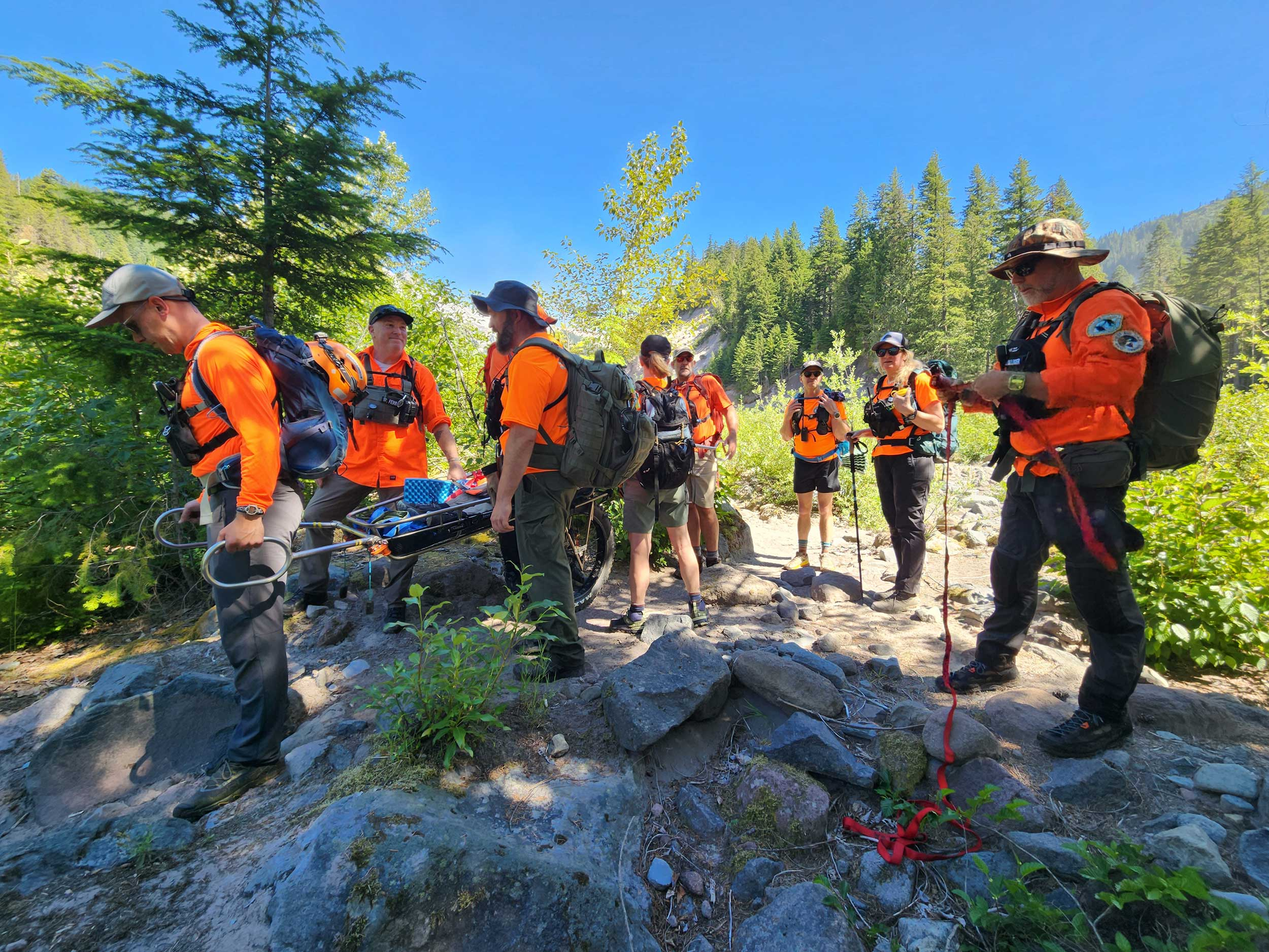
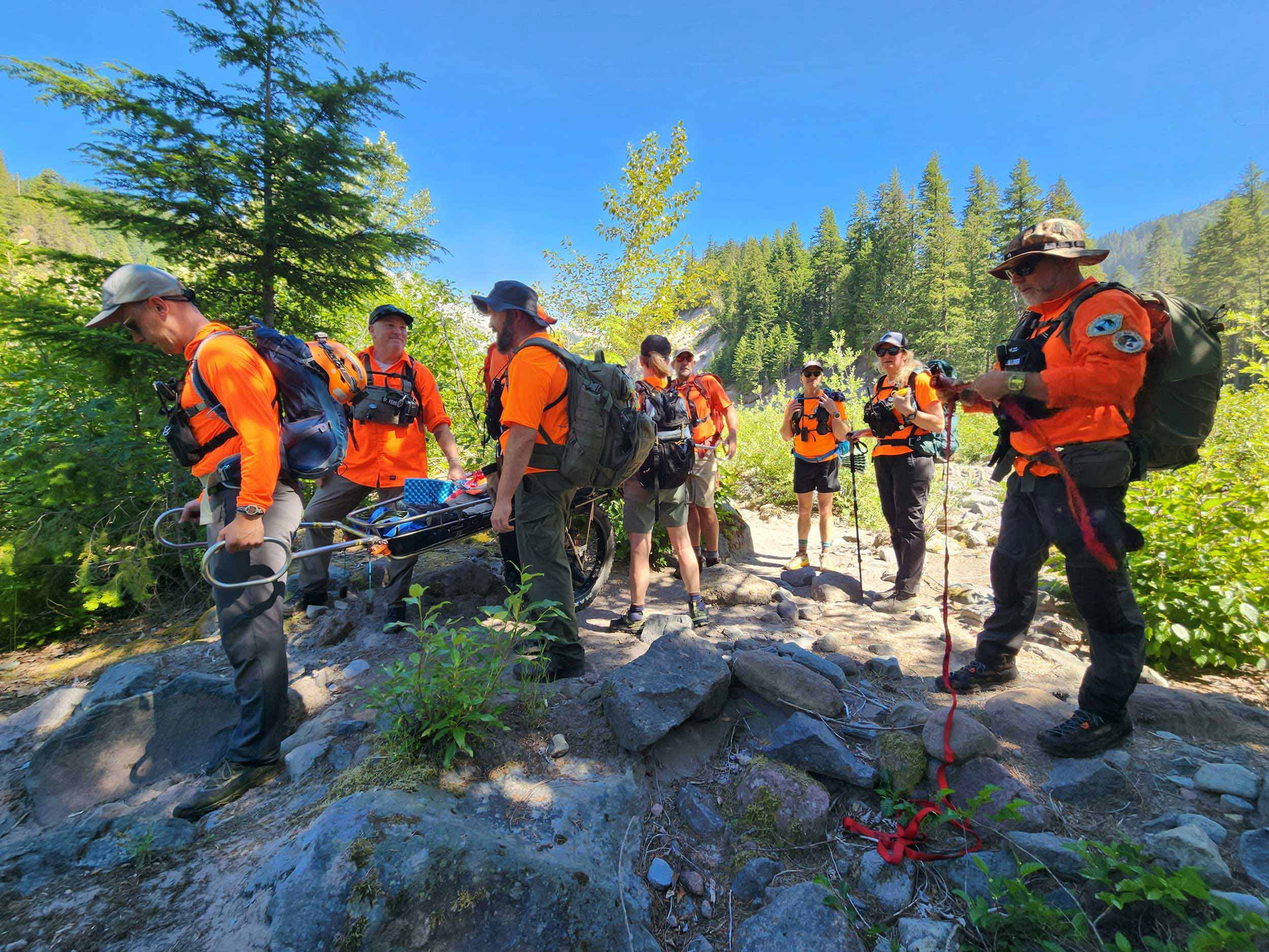
Adds preloads and optimized images

Changed region(s): [[0.4368, 0.2784, 0.5616, 0.3403], [0.4992, 0.1547, 0.5304, 0.2475], [0.3432, 0.3403, 0.3744, 0.3712]]

diff --git a/_includes/head.html b/_includes/head.html
@@ -6,6 +6,10 @@
     <meta name="description" content="{{ site.description }}">
     <link rel="canonical" href="{{ page.url | replace:'index.html','' | prepend: site.baseurl | prepend: site.url }}">
 
+    <!--Preloads-->
+    <link rel="preload" href="{{ '/style.css' | prepend: site.baseurl }}" as="style" />
+    <link rel="preload" href="{{ '/js/counter.js' | prepend: site.baseurl }}" as="script" />
+
     <!--Social meta tags-->
     <meta property="og:title" content="{% if page.title %}{{ page.title | strip_html }} | {{ site.title }}{% else %}{{ site.title }}{% endif %}" />
     <meta property="og:url" content="{{ page.url | replace:'index.html','' | prepend: site.baseurl | prepend: site.url }}" />
@@ -27,14 +31,11 @@
     <script src="https://zeffy-scripts.s3.ca-central-1.amazonaws.com/embed-form-script.min.js"></script>
 
     <!-- Custom CSS – Bootstrap Core CSS – Image gallery -->
-    <link rel="stylesheet" href="{{ "/style.css" | prepend: site.baseurl }}">
+    <link rel="stylesheet" href="{{ '/style.css' | prepend: site.baseurl }}">
     <link rel="stylesheet" href="https://cdnjs.cloudflare.com/ajax/libs/baguettebox.js/1.12.0/baguetteBox.min.css">
 
-    <!-- JS – Image gallery -->
-    <script src="https://cdnjs.cloudflare.com/ajax/libs/baguettebox.js/1.12.0/baguetteBox.js" async></script>
-
     <!-- Custom Fonts -->
-    <link rel="stylesheet" href="{{ "/css/font-awesome/css/font-awesome.min.css" | prepend: site.baseurl }}">
+    <link rel="stylesheet" href="{{ '/css/font-awesome/css/font-awesome.min.css' | prepend: site.baseurl }}">
     <link href="//fonts.googleapis.com/css?family=Lora:400,700,400italic,700italic" rel="stylesheet" type="text/css">
     <link href="//fonts.googleapis.com/css?family=Montserrat:400,700" rel="stylesheet" type="text/css">
 </head>

diff --git a/_includes/js.html b/_includes/js.html
@@ -1,11 +1,14 @@
  <!-- jQuery Version 1.11.0 -->
-    <script src="{{ "/js/jquery.js" | prepend: site.baseurl }}"></script>
+    <script src="{{ '/js/jquery.js' | prepend: site.baseurl }}"></script>
+
+    <!-- JS – Image gallery -->
+    <script src="https://cdnjs.cloudflare.com/ajax/libs/baguettebox.js/1.12.0/baguetteBox.js" async></script>    
 
     <!-- Bootstrap Core JavaScript -->
-    <script src="{{ "/js/bootstrap.min.js" | prepend: site.baseurl }}"></script>
+    <script src="{{ '/js/bootstrap.min.js' | prepend: site.baseurl }}"></script>
 
     <!-- Custom theme JavaScript -->
-    <script src="{{ "/js/grayscale.js" | prepend: site.baseurl }}"></script>
+    <script src="{{ '/js/grayscale.js' | prepend: site.baseurl }}"></script>
 
     <!-- Stats counter JavaScript -->
-    <script src="{{ "/js/counter.js" | prepend: site.baseurl }}"></script>
+    <script src="{{ '/js/counter.js' | prepend: site.baseurl }}"></script>

diff --git a/_includes/gallery.html b/_includes/gallery.html
@@ -8,7 +8,11 @@
       <div class="gallery">
             {% for image in site.data.images %}
               <a href="{{ image.path | relative_url }}">
-                <img loading="lazy" class="img-responsive" src="{{ image.path | relative_url }}" alt="{{ image.alt }}" />
+                <picture>
+                  <source class="img-responsive" srcset="{{ image.path2 | relative_url }}" type="image/webp">
+                  <source class="img-responsive" srcset="{{ image.path | relative_url }}" type="image/jpeg"> 
+                  <img class="img-responsive" src="{{ image.path | relative_url }}" alt="{{ image.alt }}">
+                </picture>
               </a>  
             {% endfor %}
       </div>    
